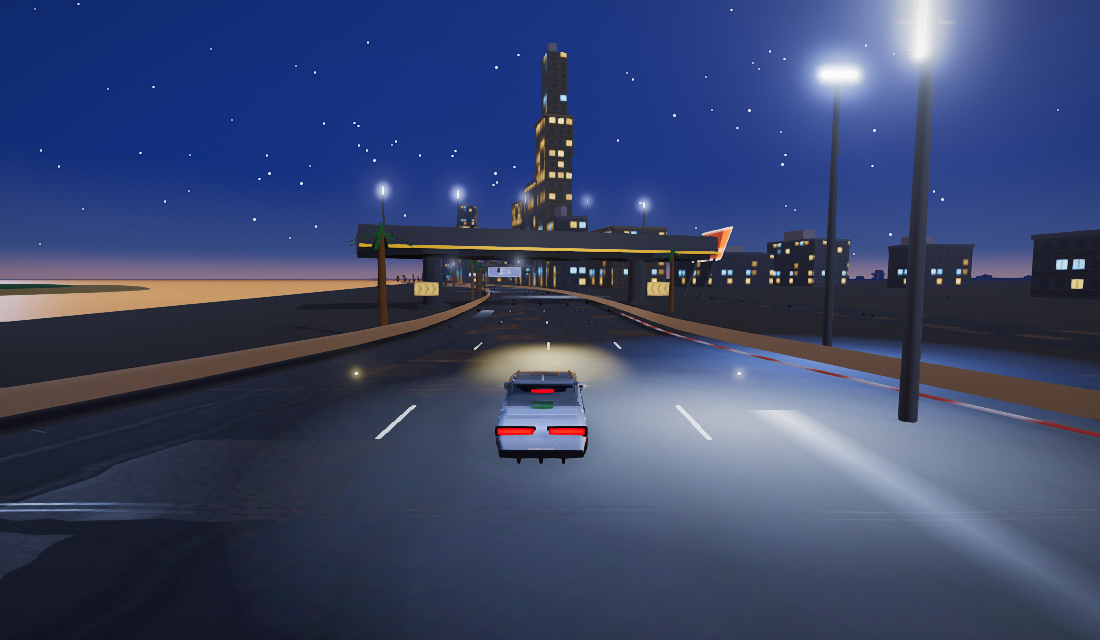
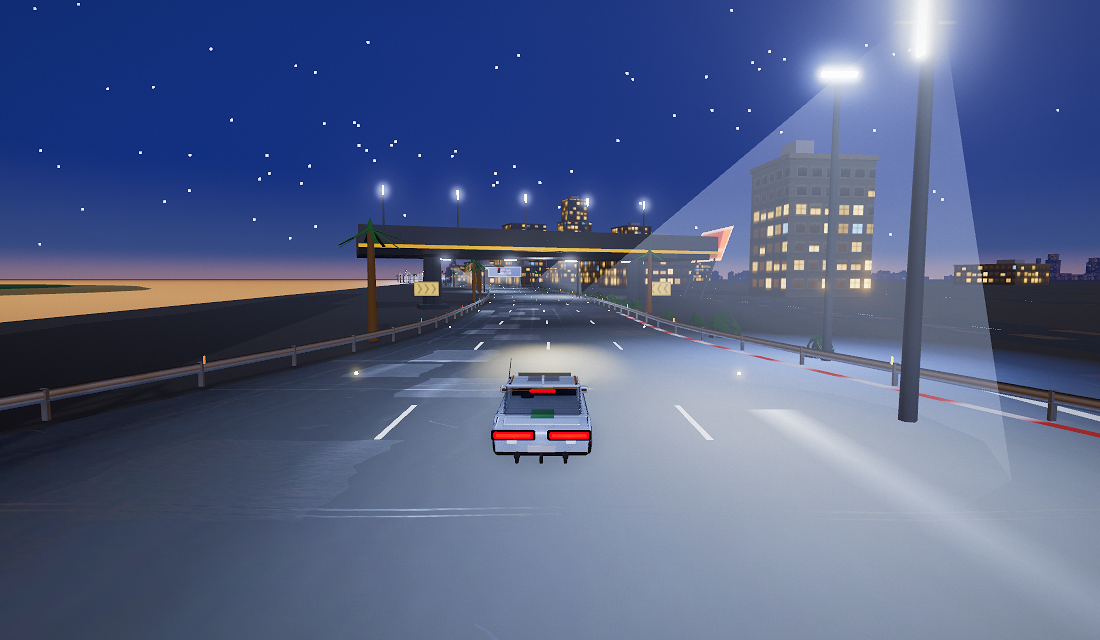
Give the gloss finish a real highlight, and make the gloss check say what it measured
MEASURED, NOT PICKED. tools/shots/paint.mjs segments the body panels and
reports a distribution rather than one "is it shiny" number, and by its
own definition the paint was matte: under the lamps 68% of body pixels
sat above half the highlight, with the median panel within 1.5x of the
brightest point. A glossy surface puts its highlight in a SMALL area;
this smeared it across two thirds of the car.

Swept against one live frame at metalness 0.95, roughness and clearcoat
roughness together:

  0.29/0.13   ratio 1.5   highlight  68%    dead 0%     grain 11.3
  0.22/0.09   ratio 2.2   highlight  44%    dead 0%     grain 12.1
  0.18/0.06   ratio 4.6   highlight  17%    dead 0.6%   grain 14.2
  0.14/0.04   ratio 6.6   highlight 7.7%    dead 1.4%   grain 11.4
  0.10/0.03   ratio 6.2   highlight 7.8%    dead 1.0%   grain  8.5

0.18/0.06, and three separate numbers agree on it. Past that knee the
ratio keeps climbing for the wrong reason — the median panel collapses
to 36 and dead pixels more than double, which is a searing streak on a
car gone black between highlights, the exact failure paint.mjs was
written to catch. The highlight itself gets DIMMER past the knee (spec
254 -> 235 -> 221), and grain — the flake and orange peel — peaks at
0.18 and falls away either side.

This undoes half of an earlier decision to pull the gloss back. That
decision is worth remembering rather than reversing silently: it was
taken when envMapIntensity was 2.4 and "made every machine look wet" on
[…]

diff --git a/src/game/cars.ts b/src/game/cars.ts
@@ -3161,7 +3161,40 @@ export function createCar(colors: CarColors): THREE.Group {
     // always drawn; satin spreads the highlight so it follows a curve
     // instead of skipping across it; matte takes the clearcoat away
     // entirely and lets the shape do the work.
-    roughness: 0.29 + FINISHES[colors.finish ?? "gloss"].roughnessAdd,
+    // 0.18, and measured rather than picked — see tools/shots/paint.mjs,
+    // which segments the body panels and reports the distribution rather
+    // than one "is it shiny" number.
+    //
+    // At 0.29 the paint was matte by that instrument's own definition:
+    // under the lamps, 68% of body pixels sat above half the highlight
+    // and the median panel was within 1.5x of the brightest point. A
+    // glossy surface puts its highlight in a SMALL area; this smeared it
+    // across two thirds of the car.
+    //
+    // Swept against one live frame, 0.29 -> 0.10:
+    //
+    //   0.29/0.13   ratio 1.5   highlight  68%    dead 0%     grain 11.3
+    //   0.22/0.09   ratio 2.2   highlight  44%    dead 0%     grain 12.1
+    //   0.18/0.06   ratio 4.6   highlight  17%    dead 0.6%   grain 14.2
+    //   0.14/0.04   ratio 6.6   highlight 7.7%    dead 1.4%   grain 11.4
+    //   0.10/0.03   ratio 6.2   highlight 7.8%    dead 1.0%   grain  8.5
+    //
+    // 0.18 is the knee and three separate numbers agree on it. Past it
+    // the ratio keeps climbing for the wrong reason: the median panel
+    // collapses to 36 and dead pixels more than double, which is a
+    // searing streak on a car gone black between highlights — the exact
+    // failure paint.mjs was written to catch. The highlight itself also
+    // gets DIMMER past the knee (spec 254 -> 235 -> 221), and grain, the
+    // flake and orange-peel texture, peaks at 0.18 and falls away either
+    // side.
+    //
+    // This does undo half of an earlier decision to pull the gloss back,
+    // and that decision is worth remembering: it was taken when
+    // envMapIntensity was 2.4, which "made every machine look wet" on
+    // the showroom turntable. The gain is 1.5 now. A tight lobe and a
+    // loud environment are different things, and only one of them was
+    // the problem.
+    roughness: 0.18 + FINISHES[colors.finish ?? "gloss"].roughnessAdd,
     // Metalness by how LIGHT the paint is.
     //
     // At 0.95 across the board, a metal's reflection is tinted by its

diff --git a/src/game/mods.ts b/src/game/mods.ts
@@ -419,7 +419,15 @@ export interface FinishSpec {
 }
 
 export const FINISHES: Record<PaintFinish, FinishSpec> = {
-  gloss: { clearcoat: 1, clearcoatRoughness: 0.13, roughnessAdd: 0, envScale: 1, metalScale: 1 },
+  // clearcoatRoughness 0.06: the "more clear" half. The lacquer's own
+  // reflection is what a clearcoat IS, and at 0.13 it was soft enough to
+  // blur the lamp it was reflecting into a smudge. Swept with the
+  // basecoat roughness — see cars.ts for the table — and 0.06 is where
+  // the highlight becomes an image of a light rather than a glow near
+  // one. Not 0.03: nothing sprayed by a human is an optical mirror, and
+  // a flawless one reads as a neon strip rather than as a reflection of
+  // one.
+  gloss: { clearcoat: 1, clearcoatRoughness: 0.06, roughnessAdd: 0, envScale: 1, metalScale: 1 },
   satin: { clearcoat: 0.45, clearcoatRoughness: 0.42, roughnessAdd: 0.16, envScale: 0.62, metalScale: 0.8 },
   matte: { clearcoat: 0, clearcoatRoughness: 1, roughnessAdd: 0.38, envScale: 0.3, metalScale: 0.25 },
 };
